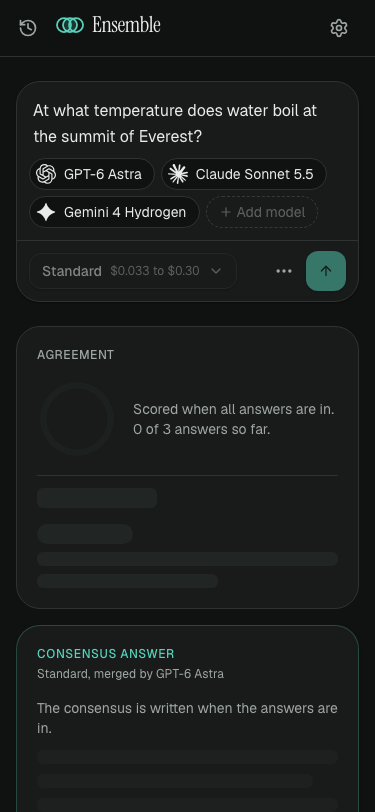
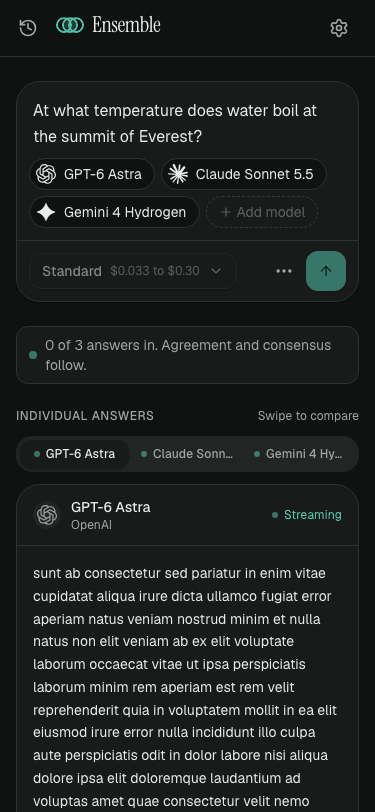
feat(app): show answers first on phones while a run streams
Below 1024 px, while answers stream, the agreement and consensus cards
give way to one status row (answers in so far, agreement and consensus
follow), so the first answer is on the first screen. The cards return
once every answer is in. Reshot app-running at 375 and 768 px.

diff --git a/packages/app/src/app/workspace/_components/RunResult.test.tsx b/packages/app/src/app/workspace/_components/RunResult.test.tsx
@@ -1,0 +1,73 @@
+import { describe, expect, it } from "vitest";
+import { render, screen } from "@testing-library/react";
+import "~/lib/i18n";
+import { sampleAnswers } from "@/components/organisms/AnswerColumns/fixtures";
+import { RunResult, type RunResultProps } from "./RunResult";
+
+function run(
+  overrides: Partial<RunResultProps["run"]> = {},
+): RunResultProps["run"] {
+  return {
+    prompt: "What is 6 times 7?",
+    running: false,
+    progress: { done: 3, total: 3 },
+    agreement: { status: "ready", score: 0.9 },
+    consensus: { status: "success", text: "42", method: "standard" },
+    exclusion: {
+      succeeded: 3,
+      total: 3,
+      failedModels: [],
+      manualCount: 0,
+      finished: true,
+      agreementAvailable: true,
+    },
+    answers: sampleAnswers,
+    ...overrides,
+  };
+}
+
+describe("RunResult", () => {
+  it("shows the run's question only when asked to", () => {
+    const { rerender } = render(<RunResult run={run()} showPrompt />);
+    expect(screen.getByTestId("run-prompt")).toHaveTextContent(
+      "What is 6 times 7?",
+    );
+    rerender(<RunResult run={run()} showPrompt={false} />);
+    expect(screen.queryByTestId("run-prompt")).not.toBeInTheDocument();
+  });
+
+  it("leaves out the answers when there are none", () => {
+    render(<RunResult run={run({ answers: [] })} showPrompt={false} />);
+    expect(screen.getByTestId("consensus-panel")).toBeInTheDocument();
+    expect(screen.queryByTestId("answer-columns")).not.toBeInTheDocument();
+  });
+
+  it("shows the agreement and consensus cards once the run has finished", () => {
+    render(<RunResult run={run()} showPrompt={false} />);
+    expect(screen.getByTestId("consensus-panel")).not.toHaveClass("hidden");
+    expect(screen.queryByTestId("run-status-compact")).not.toBeInTheDocument();
+  });
+
+  it("swaps the cards for one status row on small screens while answers stream", () => {
+    render(
+      <RunResult
+        run={run({
+          running: true,
+          progress: { done: 1, total: 3 },
+          agreement: { status: "pending" },
+          consensus: { status: "awaiting", method: "standard" },
+        })}
+        showPrompt={false}
+      />,
+    );
+    const status = screen.getByTestId("run-status-compact");
+    expect(status).toHaveTextContent(
+      "1 of 3 answers in. Agreement and consensus follow.",
+    );
+    expect(status).toHaveClass("lg:hidden");
+    const panel = screen.getByTestId("consensus-panel");
+    expect(panel).toHaveClass("hidden");
+    expect(panel).toHaveClass("lg:grid");
+    expect(screen.getByTestId("answer-columns")).toBeInTheDocument();
+  });
+});

diff --git a/packages/app/src/app/workspace/_components/RunResult.tsx b/packages/app/src/app/workspace/_components/RunResult.tsx
@@ -6,8 +6,19 @@ import { AnswerColumns } from "@/components/organisms/AnswerColumns";
 import type { useWorkspaceRun } from "../hooks/useWorkspaceRun";
 import { RunExclusionNote } from "./RunExclusionNote";
 
+type WorkspaceRun = ReturnType<typeof useWorkspaceRun>;
+
 export interface RunResultProps {
-  run: ReturnType<typeof useWorkspaceRun>;
+  run: Pick<
+    WorkspaceRun,
+    | "prompt"
+    | "running"
+    | "progress"
+    | "agreement"
+    | "consensus"
+    | "exclusion"
+    | "answers"
+  >;
   /** Shows the run's question, for when the composer holds a different draft. */
   showPrompt: boolean;
 }
@@ -15,9 +26,14 @@ export interface RunResultProps {
 /**
  * The run on the workspace: the agreement score and consensus answer first,
  * a note on failed models, then every answer in columns (tabs on phones).
+ *
+ * Below 1024 px, while answers stream, the agreement and consensus cards
+ * give way to one status row, so the first answer is on the first screen.
+ * The cards come back once every answer is in.
  */
 export function RunResult({ run, showPrompt }: RunResultProps) {
   const { t } = useTranslation("common");
+  const compact = run.running;
   return (
     <div data-testid="run-result" className="space-y-6">
       {showPrompt && (
@@ -31,7 +47,27 @@ export function RunResult({ run, showPrompt }: RunResultProps) {
           {run.prompt}
         </p>
       )}
-      <ConsensusPanel agreement={run.agreement} consensus={run.consensus} />
+      {compact && (
+        <p
+          data-testid="run-status-compact"
+          role="status"
+          className="flex items-center gap-2 rounded-lg border border-border bg-card px-3 py-2 text-label text-muted-foreground lg:hidden"
+        >
+          <span
+            aria-hidden="true"
+            className="size-2 shrink-0 animate-pulse rounded-full bg-primary motion-reduce:animate-none"
+          />
+          {t("pages.workspace.runningStatus", {
+            done: run.progress.done,
+            count: run.progress.total,
+          })}
+        </p>
+      )}
+      <ConsensusPanel
+        agreement={run.agreement}
+        consensus={run.consensus}
+        className={compact ? "hidden lg:grid" : undefined}
+      />
       <RunExclusionNote {...run.exclusion} />
       {run.answers.length > 0 && <AnswerColumns answers={run.answers} />}
     </div>

diff --git a/packages/app/src/app/workspace/hooks/useWorkspaceRun.ts b/packages/app/src/app/workspace/hooks/useWorkspaceRun.ts
@@ -142,6 +142,8 @@ export function useWorkspaceRun({
     hasRun,
     prompt: run.prompt,
     running: run.viewResponses.some((r) => r.isStreaming),
+    /** Answers finished (including manual ones) out of all answers of the run. */
+    progress: { done, total },
     /** Starts a run of the current ensemble, dropping any consensus still running for the old one. */
     startRun: (prompt: string) => {
       consensus.restart();

diff --git a/packages/app/docs/screenshots/m4/README.md b/packages/app/docs/screenshots/m4/README.md
@@ -14,7 +14,7 @@ Captured for review of the M4 wireframes and visual refresh, at 375, 768 and 144
 | `app-ready` | Same, after adding keys | Example questions under the composer |
 | `app-models` | Same, picker open | Inline model picker, models of providers with a working key |
 | `app-method` | Same, method menu open | Calls and cost of each method before asking, summarizer choice |
-| `app-running` | Same, about a second after asking | Answers streaming; agreement and consensus waiting |
+| `app-running` | Same, about a second after asking | Answers streaming. Below 1024 px one status row stands in for the agreement and consensus cards until every answer is in |
 | `app-done` | Same, finished run | Agreement score and pairs, consensus with cost, answers |
 | `app-settings` | Same, settings open (`/config` lands here) | Keys, endpoints, embeddings, appearance, data |
 | `cl-empty` | Storybook `Organisms/AppShell/WorkspaceEmpty` | First visit: composer alone |
